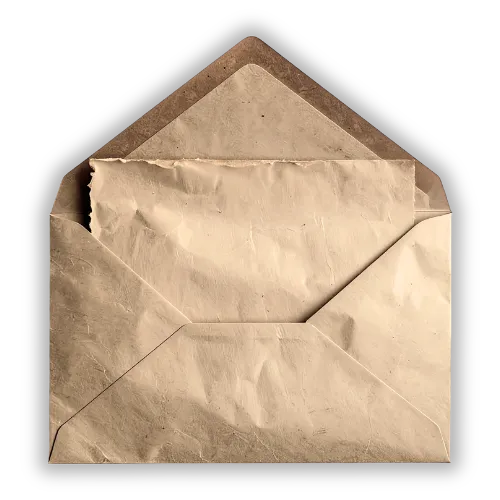
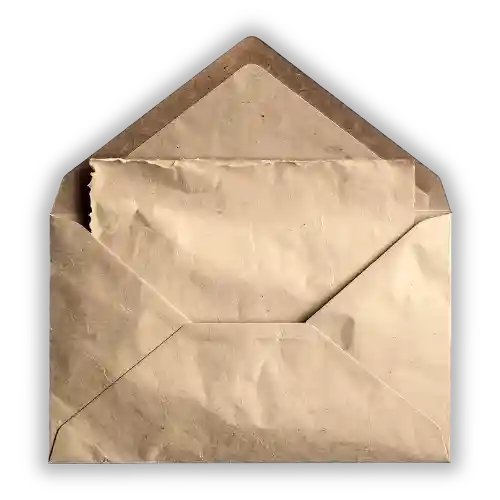
personvern page

diff --git a/src/pages/Personvern/index.jsx b/src/pages/Personvern/index.jsx
@@ -1,0 +1,153 @@
+import { Link } from "react-router-dom";
+
+export default function Personvern() {
+  return (
+    <main className="min-h-screen bg-space-blue text-egg px-6 sm:px-12 lg:px-20 py-32">
+      <div className="max-w-3xl mx-auto">
+        <h1 className="font-['Times_New_Roman'] uppercase text-3xl sm:text-4xl font-bold mt-12 sm:mt-20 mb-6">
+          Personvern
+        </h1>
+
+        <p className="text-egg/60 text-sm mb-12">
+          Sist oppdatert: 29. oktober 2026
+        </p>
+
+        <div className="space-y-10 line-seed-jp-thin text-sm sm:text-base leading-8">
+          <section>
+            <h2 className="text-xl font-['Times_New_Roman'] uppercase font-bold text-sunset-yellow mb-3">
+              Om nettsiden
+            </h2>
+            <p>
+              Brytningstid er en nettside som presenterer dokumentarfilmen av
+              regissør Jakob Hardeberg. Vi ønsker å ivareta personvernet ditt og
+              være åpne om hvordan personopplysninger behandles når du besøker
+              nettsiden.
+            </p>
+          </section>
+
+          <section>
+            <h2 className="text-xl font-['Times_New_Roman'] uppercase font-bold text-sunset-yellow mb-3">
+              Behandlingsansvarlig
+            </h2>
+            <p>
+              [Navn på behandlingsansvarlig] er ansvarlig for behandling av
+              personopplysninger knyttet til nettsiden.
+            </p>
+            <p className="mt-3">Kontakt: [E-postadresse]</p>
+          </section>
+
+          <section>
+            <h2 className="text-xl font-['Times_New_Roman'] uppercase font-bold text-sunset-yellow mb-3">
+              Hvilke opplysninger behandles?
+            </h2>
+            <p>
+              Nettsiden krever ingen registrering og har ikke kontaktskjema.
+            </p>
+            <p className="mt-3">
+              Ved besøk kan tekniske opplysninger, som IP-adresse, nettlesertype
+              og informasjon om forespørsler til nettsiden, behandles av vår
+              hostingleverandør for å levere nettsiden og ivareta sikkerhet og
+              stabil drift.
+            </p>
+          </section>
+
+          <section>
+            <h2 className="text-xl font-['Times_New_Roman'] uppercase font-bold text-sunset-yellow mb-3">
+              Hosting og eksterne tjenester
+            </h2>
+            <p>
+              Nettsiden er hostet hos Vercel, som behandler tekniske
+              opplysninger i forbindelse med levering og drift av nettsiden.
+            </p>
+            <p className="mt-3">
+              Enkelte skrifttyper lastes fra Google Fonts. Når disse lastes inn,
+              opprettes en forbindelse til Googles servere, og tekniske
+              opplysninger som IP-adressen kan overføres.
+            </p>
+            <p className="mt-3">
+              Behandling hos eksterne leverandører kan innebære overføring av
+              opplysninger utenfor EØS. Slik behandling skal være omfattet av et
+              gyldig overføringsgrunnlag.
+            </p>
+          </section>
+
+          <section>
+            <h2 className="text-xl font-['Times_New_Roman'] uppercase font-bold text-sunset-yellow mb-3">
+              Informasjonskapsler og analyse
+            </h2>
+            <p>
+              Brytningstid bruker ikke Google Analytics, Vercel Web Analytics
+              eller tilsvarende besøksanalyse.
+            </p>
+            <p className="mt-3">
+              Nettsiden er ikke konfigurert med informasjonskapsler for
+              annonsering eller markedsføringssporing.
+            </p>
+          </section>
+
+          <section>
+            <h2 className="text-xl font-['Times_New_Roman'] uppercase font-bold text-sunset-yellow mb-3">
+              Kontakt via e-post
+            </h2>
+            <p>
+              Dersom du kontakter oss via e-post, behandler vi opplysningene du
+              selv sender, for eksempel navn, e-postadresse og innholdet i
+              meldingen.
+            </p>
+            <p className="mt-3">
+              Opplysningene brukes til å besvare og følge opp henvendelsen, og
+              oppbevares ikke lenger enn nødvendig for dette formålet, med
+              mindre loven krever lengre lagring.
+            </p>
+          </section>
+
+          <section>
+            <h2 className="text-xl font-['Times_New_Roman'] uppercase font-bold text-sunset-yellow mb-3">
+              Rettslig grunnlag og lagring
+            </h2>
+            <p>
+              Behandling av tekniske opplysninger for sikker og stabil drift,
+              samt behandling av vanlige henvendelser, bygger normalt på
+              berettiget interesse etter personvernforordningen artikkel 6 nr. 1
+              bokstav f.
+            </p>
+            <p className="mt-3">
+              Lagringstiden avhenger av formålet, leverandørenes rutiner og
+              eventuelle lovpålagte krav. Opplysninger skal ikke oppbevares
+              lenger enn nødvendig.
+            </p>
+          </section>
+
+          <section>
+            <h2 className="text-xl font-['Times_New_Roman'] uppercase font-bold text-sunset-yellow mb-3">
+              Dine rettigheter
+            </h2>
+            <p>
+              Du kan etter personvernregelverket blant annet ha rett til innsyn,
+              retting, sletting, begrensning av behandling og til å protestere
+              mot behandling av dine personopplysninger.
+            </p>
+            <p className="mt-3">
+              Du kan kontakte behandlingsansvarlig dersom du har spørsmål eller
+              ønsker å bruke dine rettigheter. Du har også rett til å klage til
+              Datatilsynet.
+            </p>
+          </section>
+
+          <section>
+            <h2 className="text-xl font-['Times_New_Roman'] uppercase font-bold text-sunset-yellow mb-3">
+              Endringer
+            </h2>
+            <p>
+              Personvernerklæringen kan oppdateres dersom nettsidens
+              funksjonalitet eller behandling av personopplysninger endres.
+            </p>
+          </section>
+          <Link to="/" className="nav-links-style">
+            ← Tilbake til forsiden
+          </Link>
+        </div>
+      </div>
+    </main>
+  );
+}

diff --git a/src/main.jsx b/src/main.jsx
@@ -4,6 +4,7 @@ import { RouterProvider, createBrowserRouter } from "react-router-dom";
 import NotFound from "./pages/NotFound";
 import Home from "./pages/Hjem";
 import Om from "./pages/Om";
+import Personvern from "./pages/Personvern";
 
 import "./index.css";
 
@@ -25,6 +26,10 @@ const router = createBrowserRouter([
       {
         path: "*",
         element: <NotFound />,
+      },
+      {
+        path: "personvern",
+        element: <Personvern />,
       },
     ],
   },

diff --git a/src/layout/Footer/index.jsx b/src/layout/Footer/index.jsx
@@ -32,6 +32,10 @@ export default function Footer() {
               <a href="#regissor" className=" footer-links-style">
                 Regissøren
               </a>
+
+              <Link to="/personvern" className="footer-links-style">
+                Personvern
+              </Link>
             </nav>
           </div>
 
